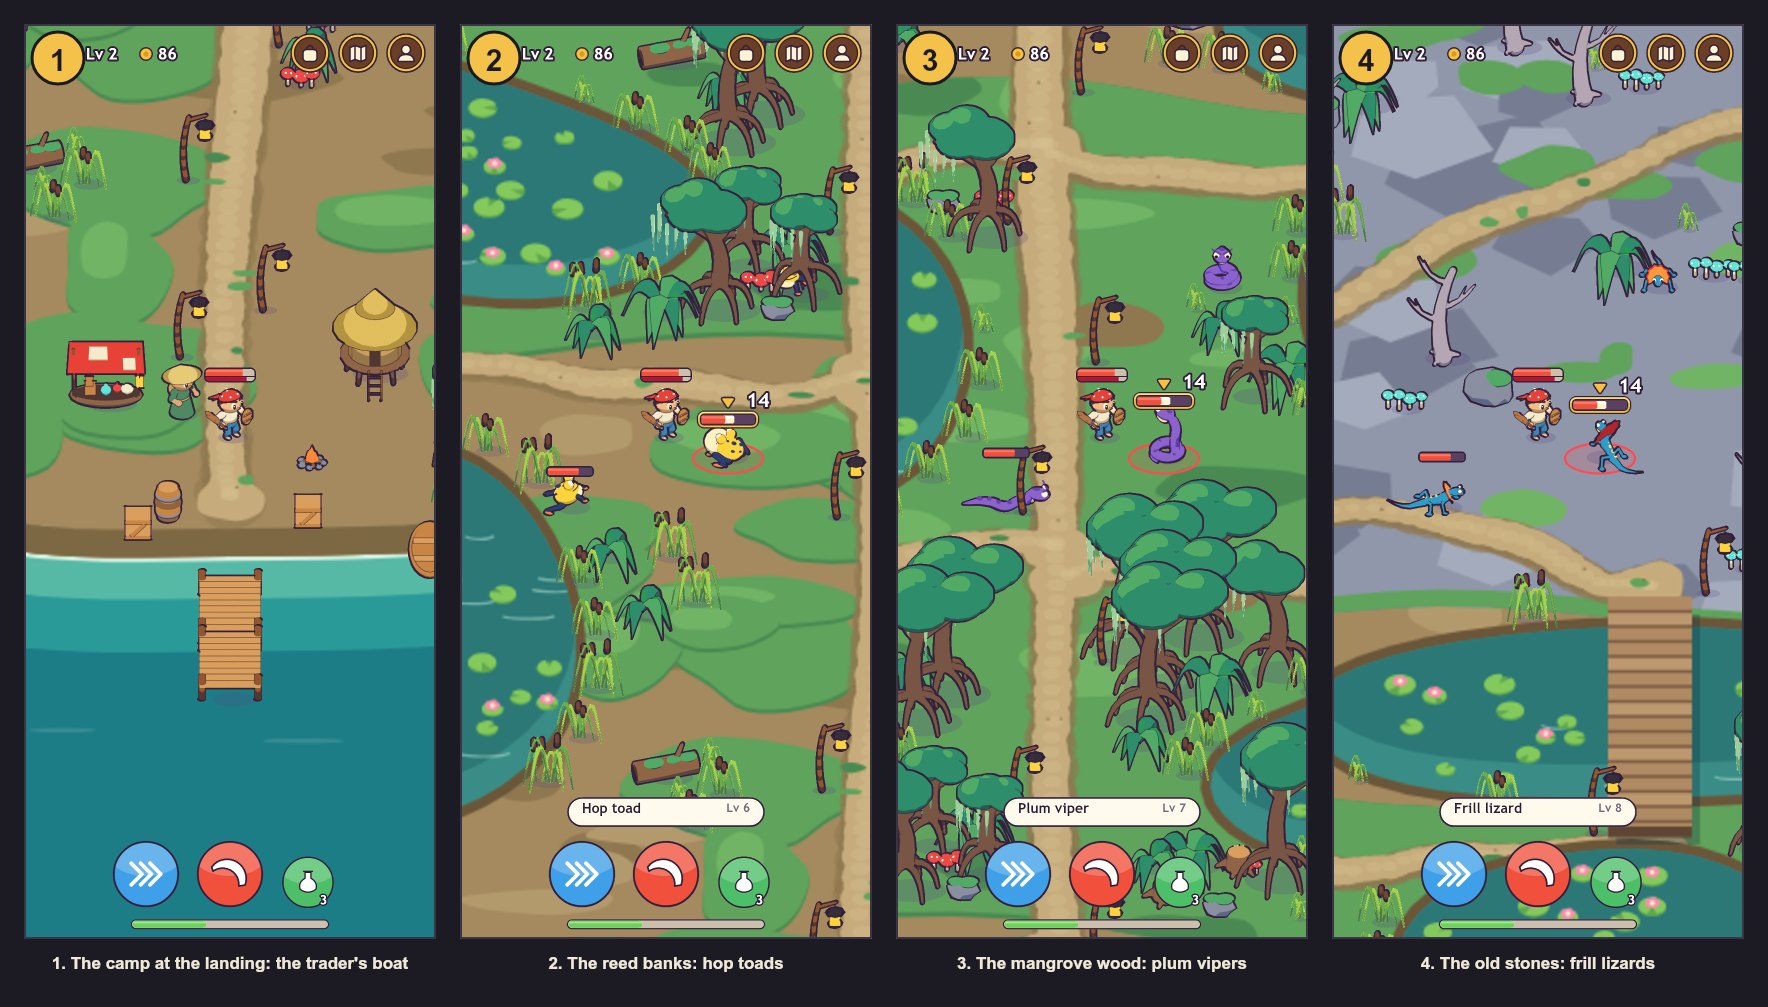
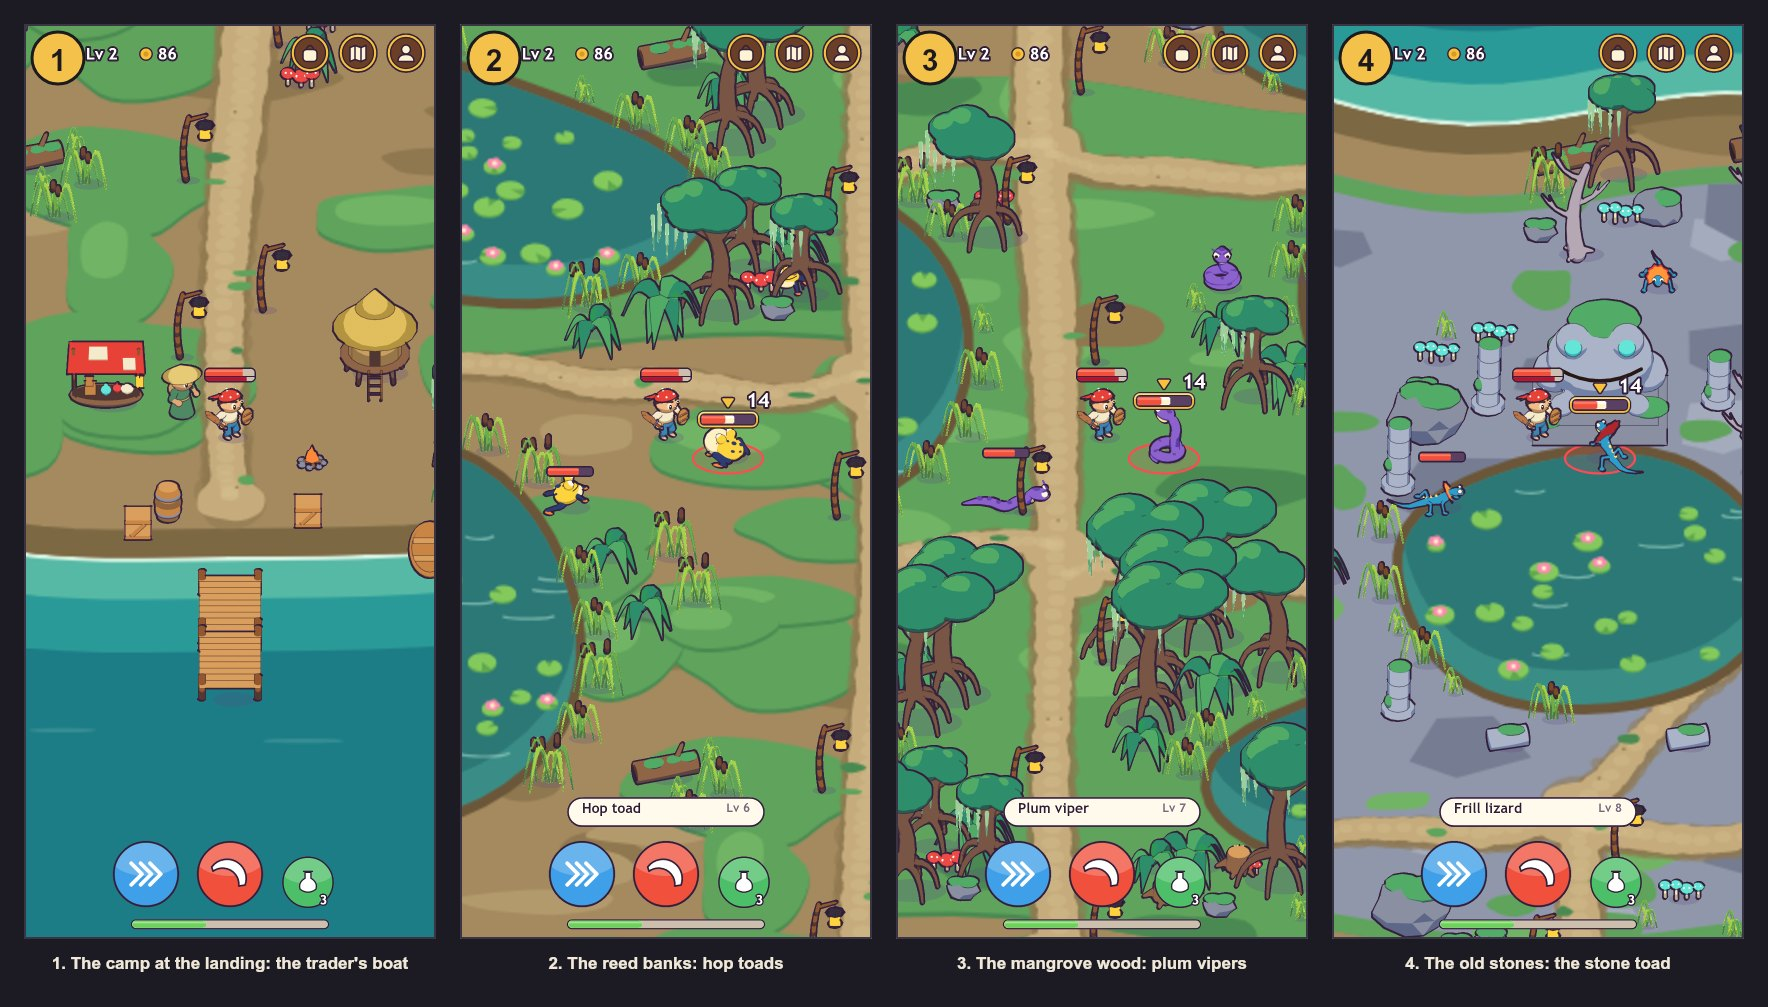
The swamp's old stones have a landmark: a great stone toad
Robin said the swamp "Looks good" (2026-11-20, in Leonard, AD's chat), so
Leonard, AD made its landmark: a stone toad on a plinth above the ruin's
pool, with eight broken pillars round it. Copied whole from
out\mire-cay; the place data is rebuilt by the tool, so the toad and the
pillars are in the way (194 round things, 2 boxes).

The toad only stands there; the rules give it no use yet.

Seen in the pane at the old stones; 126 tests green.

Changed region(s): [[0.7466, 0.0, 0.9955, 0.9851]]

diff --git a/Game Developer/client/public/art/mire-cay/NOTES.md b/Game Developer/client/public/art/mire-cay/NOTES.md
@@ -27,6 +27,12 @@ paler down the middle, a ragged rim with no line, moss creeping in, and a worn p
 laid together, so none lies on another. **Only `ground.png` changed** (and the look pictures); `paths` in
 `place.json` is the same list, and the ways still run through its points.
 
+**The fourth drop, 2026-11-20: the landmark.** Robin said the swamp "Looks good", so the old stones have their
+landmark: a great stone toad on a plinth, moss on its head, its eyes still shining, looking south over the ruin's
+pool, with eight broken pillars in a ring round the pool. New props: `idol`, `pillar-a`, `pillar-b`, `pillar-c`.
+The atlas is 1024 by 810 with 32 props (3.2 MB); 436 props stand, 194 things are in the way (two boxes now: the stall
+and the toad). `ground.png` did not change. The toad stands at 1212, 622; a few reeds round it are gone.
+
 ## The numbers
 
 | File | What | Size | Decoded | On disk |
@@ -64,7 +70,7 @@ Copy the folder. It is Crab Cay's form (`out\crab-cay\NOTES.md`), with **one new
 ## Open
 
 - **The look:** Robin, 2026-11-20: "Looks good except the roads." The roads are redone (above) and shown to him again.
-- **A landmark.** The old stones want broken pillars and one great thing (I would make a mossy stone toad). Not made.
+- The stone toad only stands there. If the rules want it to be something (a door, a boss's seat, a place to pray), say.
 - The camp has one person. More of them, and a second hut, when tasks come here.
 - The stall, the hut and the fire take the round shadow; the fire does not flicker.
 - The lanterns do not glow and the water does not move. Fireflies would be the chest's `mote`, tinted yellow.
